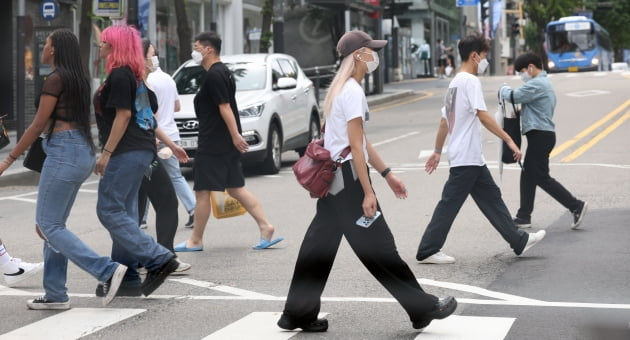
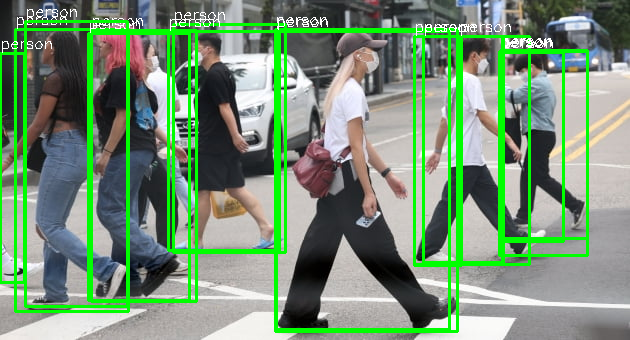
street

Changed region(s): [[0.0, 0.0294, 0.9349, 1.0]]

diff --git a/app.py b/app.py
@@ -188,8 +188,12 @@ def main():
                 hold_hand_sign_history.append(hold_hand_sign)
                 if (hold_hand_sign_history[0] != hold_hand_sign_history[1]) and (hold_hand_sign is not None):
                     hand_sign = keypoint_classifier_labels[hold_hand_sign]
+                    print(f"holding hand! {hand_sign}")
                     
-                    print(f"holding hand! {hand_sign} {hold_hand_sign_history}")
+                    try:
+                        cv.destroyWindow('Obstacle detection')
+                    except:
+                        pass
                     
                     if hold_hand_sign == 6:
                         

diff --git a/obstacle_detection.py b/obstacle_detection.py
@@ -82,8 +82,6 @@ class Obstacle_detection:
         self.draw_boxes(image, filtered_boxes)
 
         # 결과를 화면에 표시
-        cv2.imshow('Image with Filtered Boxes', image)
-        cv2.waitKey(0)
-        cv2.destroyAllWindows()
+        cv2.imshow('Obstacle detection', image)
         
         return image
